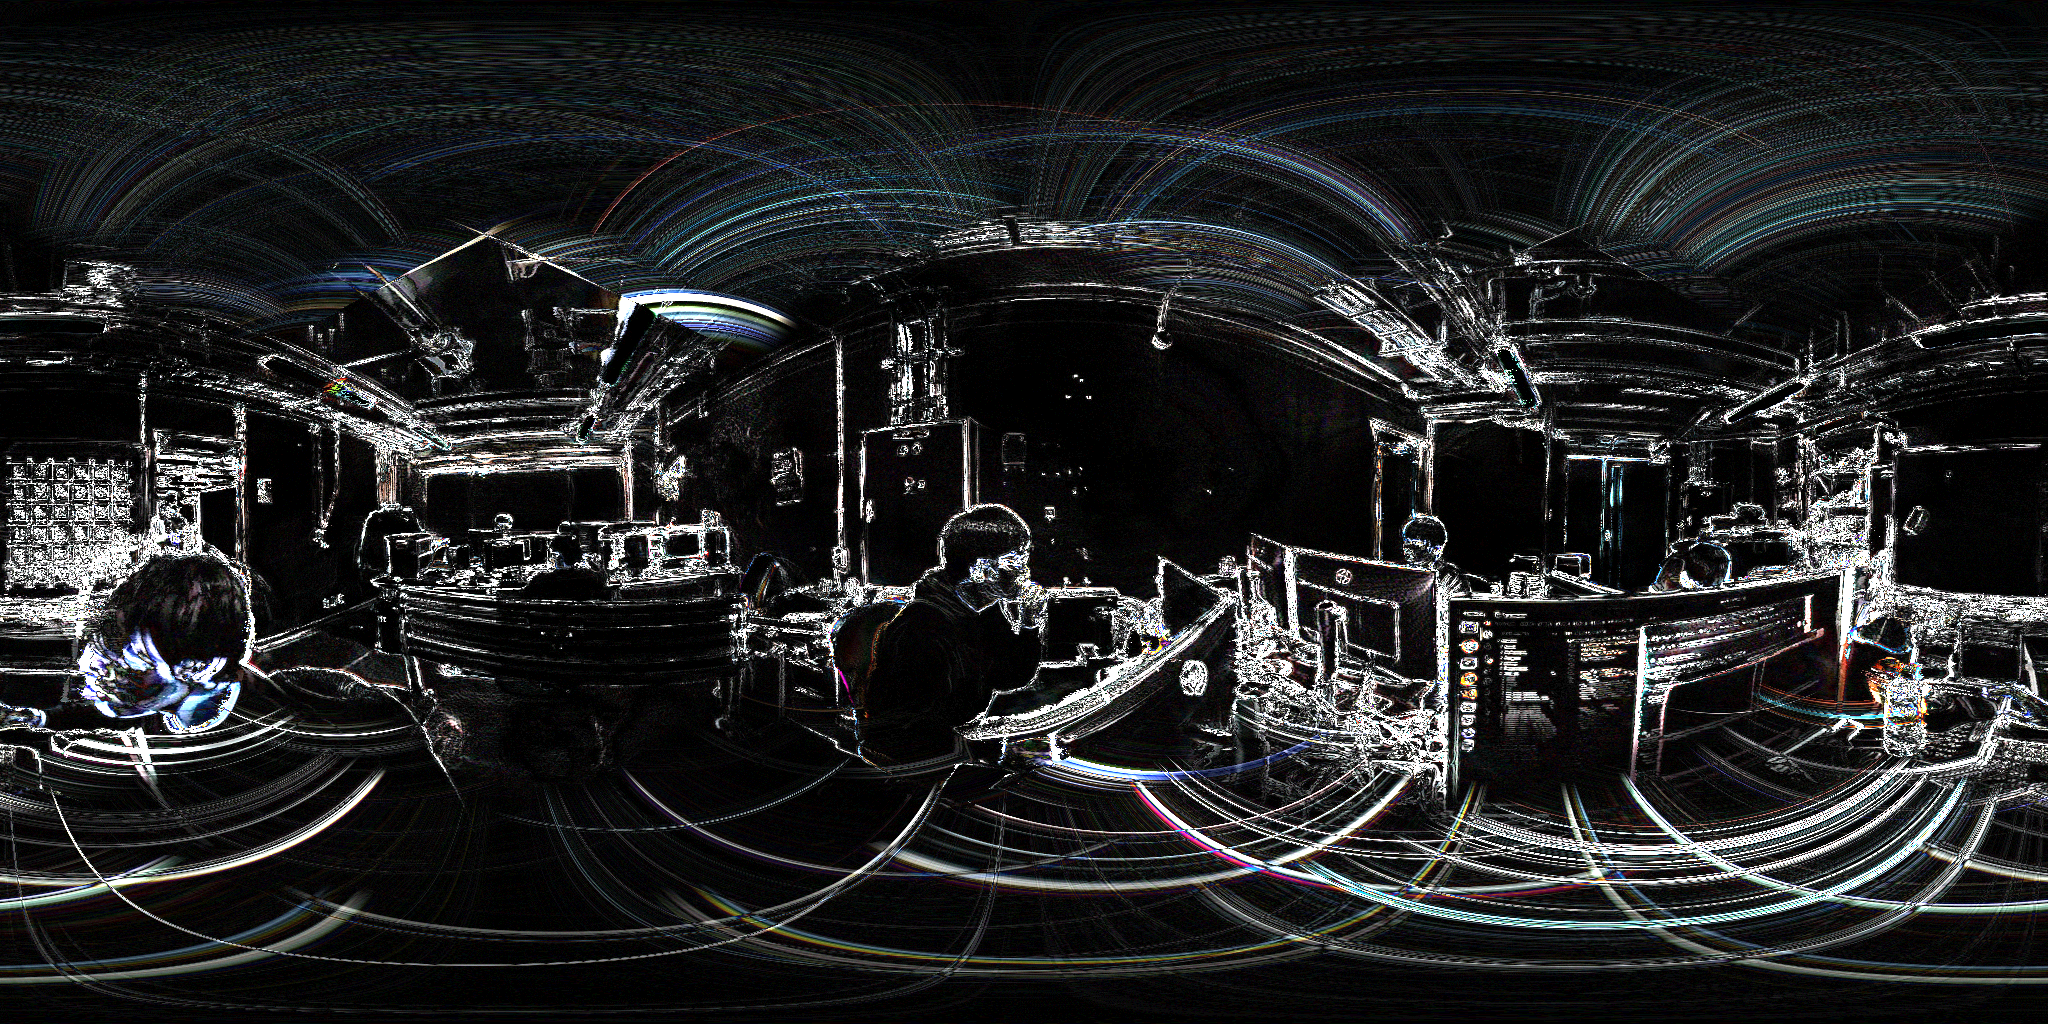
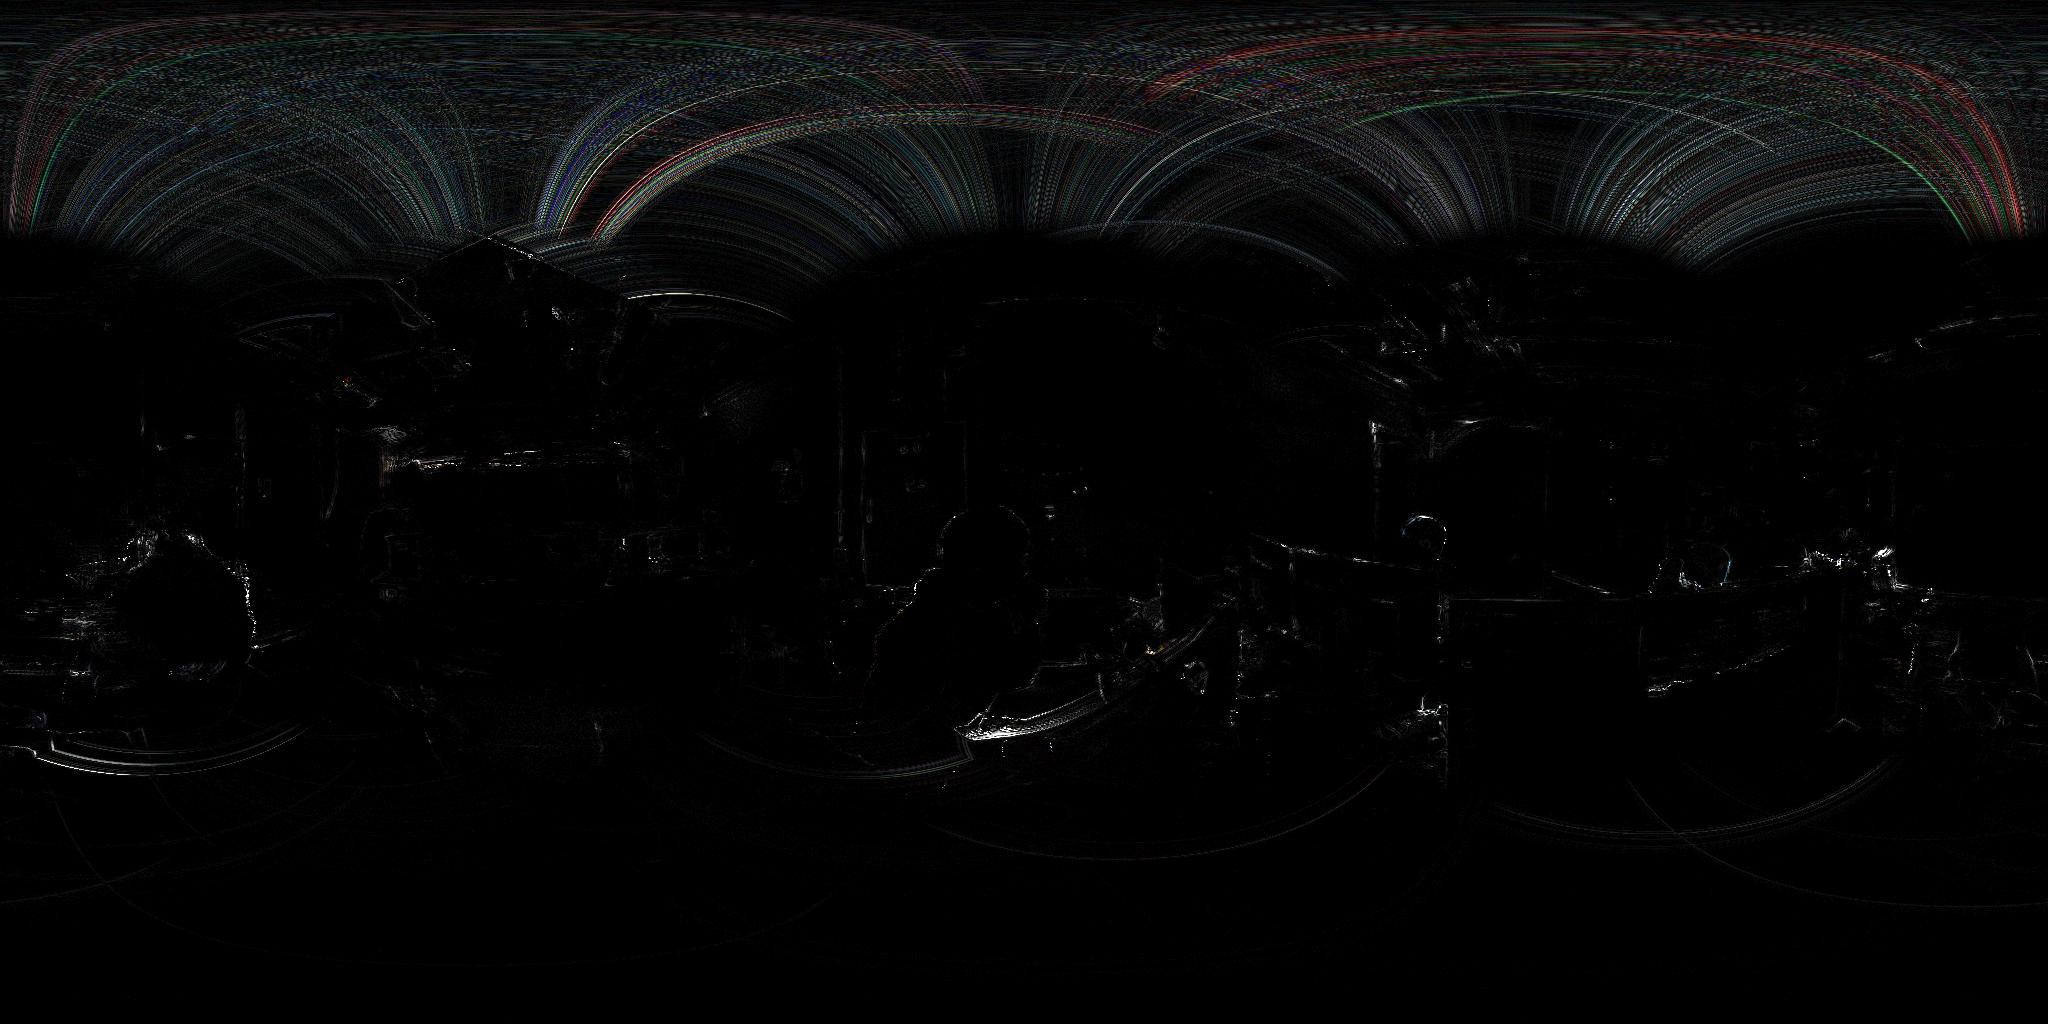
627.24 ms 検証合格！

diff --git a/ros2_ws/src/my_stereo_pkg/src/core/depth_estimation.cpp b/ros2_ws/src/my_stereo_pkg/src/core/depth_estimation.cpp
@@ -573,6 +573,18 @@ at::Tensor RGBDEstimator::estimate_fisheye_distance(
     auto stage1_time = std::chrono::duration_cast<std::chrono::microseconds>(t_stage1_end - t_stage1_start).count() / 1000.0;
     std::cout << "[STAGE 1] launch_compute_costs: " << stage1_time << " ms" << std::endl;
     
+    // DIAGNOSTIC: Probe specific pixel (512, 512) - Raw Cost Volume
+    int probe_x = 512, probe_y = 512;
+    if (probe_x < cols && probe_y < rows && ref_camera_idx == 0) {  // Only for first camera
+        std::cout << "\n=== DIAGNOSTIC PROBE at (" << probe_x << ", " << probe_y << ") ===" << std::endl;
+        auto cost_cpu = unified_cost_volume_.cpu();
+        auto cost_accessor = cost_cpu.accessor<float, 3>();
+        std::cout << "[RAW COST] First 5 depth candidates:" << std::endl;
+        for (int d = 0; d < std::min(5, candidate_count_); ++d) {
+            std::cout << "  d=" << d << ": " << cost_accessor[d][probe_y][probe_x] << std::endl;
+        }
+    }
+    
     // Pass 2: Apply ISB Filter to cost volume
     // Edge-preserving smoothing in cost space (critical for accuracy)
     // Python: cost_volume, _ = self.cost_filter.apply(guide, cost_volume, sigma_i, sigma_s)
@@ -587,6 +599,16 @@ at::Tensor RGBDEstimator::estimate_fisheye_distance(
     auto t_stage2_end = std::chrono::high_resolution_clock::now();
     auto stage2_time = std::chrono::duration_cast<std::chrono::microseconds>(t_stage2_end - t_stage2_start).count() / 1000.0;
     std::cout << "[STAGE 2] ISB Filter apply: " << stage2_time << " ms" << std::endl;
+    
+    // DIAGNOSTIC: Probe after ISB filtering
+    if (probe_x < cols && probe_y < rows && ref_camera_idx == 0) {
+        auto filtered_cpu = filtered_cost_volume.cpu();
+        auto filtered_accessor = filtered_cpu.accessor<float, 3>();
+        std::cout << "[FILTERED COST] First 5 depth candidates:" << std::endl;
+        for (int d = 0; d < std::min(5, candidate_count_); ++d) {
+            std::cout << "  d=" << d << ": " << filtered_accessor[d][probe_y][probe_x] << std::endl;
+        }
+    }
     
     // Pass 3: Winner-Take-All + Quadratic Fitting
     // Compute final depth from ISB-filtered cost volume
@@ -605,21 +627,36 @@ at::Tensor RGBDEstimator::estimate_fisheye_distance(
     auto stage3_time = std::chrono::duration_cast<std::chrono::microseconds>(t_stage3_end - t_stage3_start).count() / 1000.0;
     std::cout << "[STAGE 3] launch_final_depth: " << stage3_time << " ms" << std::endl;
     
-    // Optional: Light post-filtering on distance map (much weaker than Python version)
-    // Python version doesn't apply distance filter after cost filter
-    // We apply very light filtering only for noise reduction
+    // DIAGNOSTIC: Probe final distance before post-filtering
+    if (probe_x < cols && probe_y < rows && ref_camera_idx == 0) {
+        auto dist_cpu = temp_distance_buffer_.cpu();
+        auto dist_accessor = dist_cpu.accessor<float, 2>();
+        std::cout << "[BEFORE POST-FILTER] Distance: " << dist_accessor[probe_y][probe_x] << " m" << std::endl;
+    }
+    
+    // Optional: Light post-filtering on distance map (MATCHES Python implementation)
+    // Python: self.distance_filter.apply(guide.clone(), distance_map.clone(), self.sigma_i/2, self.sigma_s/2)
+    // Higher edge preservation for distance map
     auto t_postfilter_start = std::chrono::high_resolution_clock::now();
     auto distance_map_batched = temp_distance_buffer_.unsqueeze(0);
     auto distance_filter_result = distance_filter_->apply(
         guide, // Remove .clone() to avoid dynamic allocation
         distance_map_batched, 
-        sigma_i_ * 2.0f,  // Much weaker color preservation
-        sigma_s_ * 2.0f   // Much weaker spatial preservation
+        sigma_i_ / 2.0f,  // Higher edge preservation (FIXED: was * 2.0f)
+        sigma_s_ / 2.0f   // Higher edge preservation (FIXED: was * 2.0f)
     );
     auto filtered_distance = distance_filter_result.first;
     auto t_postfilter_end = std::chrono::high_resolution_clock::now();
     auto postfilter_time = std::chrono::duration_cast<std::chrono::microseconds>(t_postfilter_end - t_postfilter_start).count() / 1000.0;
     std::cout << "[POST-FILTER] Distance filter: " << postfilter_time << " ms" << std::endl;
+    
+    // DIAGNOSTIC: Probe final distance after post-filtering
+    if (probe_x < cols && probe_y < rows && ref_camera_idx == 0) {
+        auto final_cpu = filtered_distance.squeeze(0).cpu();
+        auto final_accessor = final_cpu.accessor<float, 2>();
+        std::cout << "[AFTER POST-FILTER] Distance: " << final_accessor[probe_y][probe_x] << " m" << std::endl;
+        std::cout << "=== END DIAGNOSTIC PROBE ===\n" << std::endl;
+    }
     
     // Profiling summary
     auto t_func_end = std::chrono::high_resolution_clock::now();

diff --git a/ros2_ws/scripts/verify_full_pipeline.py b/ros2_ws/scripts/verify_full_pipeline.py
@@ -293,6 +293,25 @@ def verify_full_pipeline():
     print(f"    Time: {py_time:.2f} ms")
     print(f"    RGB shape: {py_rgb.shape}, Distance shape: {py_distance.shape}")
     
+    # DIAGNOSTIC: Probe Python intermediate values at (512, 512)
+    probe_x, probe_y = 512, 512
+    print(f"\n  === PYTHON DIAGNOSTIC PROBE at ({probe_x}, {probe_y}) ===")
+    
+    # Test unproject/project for first camera
+    test_uv = torch.tensor([[probe_x, probe_y]], dtype=torch.float32, device=device)
+    from utils import unproject, project
+    pt_unit, valid = unproject(test_uv, py_calibrations[0])
+    print(f"  [UNPROJECT] Point: {pt_unit[0].cpu().numpy()}, Valid: {valid[0].item()}")
+    
+    # Reproject back
+    uv_back, valid_proj = project(pt_unit, py_calibrations[0])
+    print(f"  [PROJECT] UV back: {uv_back[0].cpu().numpy()}, Valid: {valid_proj[0].item()}")
+    
+    # Note: Cost volume intermediate values would require modifying the Python code
+    # to expose them, which we'll skip for now
+    print(f"  [FINAL DISTANCE] Python: {py_distance[probe_y, probe_x].item():.4f} m")
+    print("  === END PYTHON PROBE ===\n")
+    
     # C++ version
     print("\n  Running C++ RGBDEstimator...")
     torch.cuda.synchronize()
@@ -307,6 +326,11 @@ def verify_full_pipeline():
     
     print(f"    Time: {cpp_time:.2f} ms")
     print(f"    RGB shape: {cpp_rgb.shape}, Distance shape: {cpp_distance.shape}")
+    
+    # DIAGNOSTIC: C++ probe output is printed during execution
+    print(f"\n  === C++ DIAGNOSTIC (see output above) ===")
+    print(f"  [FINAL DISTANCE] C++: {cpp_distance[probe_y, probe_x].item():.4f} m")
+    print("  === END C++ PROBE ===\n")
     
     # ========== Compare Results ==========
     print("\n" + "=" * 80)

diff --git a/ros2_ws/src/my_stereo_pkg/include/my_stereo_pkg/cuda_kernels.hpp b/ros2_ws/src/my_stereo_pkg/include/my_stereo_pkg/cuda_kernels.hpp
@@ -239,6 +239,7 @@ void launch_guide_downsample_2x(
  * @param candidate_count Number of depth candidates
  * @param var_inv_i Inverse variance for intensity difference (1 / sigma_i^2)
  * @param weight_up Spatial weight for upsampling (exp(-dist^2 / sigma_s^2))
+ * @param weight_down Spatial weight for downsampling
  */
 void launch_guide_upsample_2x(
     const at::Tensor& guide_low,
@@ -251,7 +252,8 @@ void launch_guide_upsample_2x(
     int colsOut,
     int candidate_count,
     float var_inv_i,
-    float weight_up
+    float weight_up,
+    float weight_down
 );
 
 // Cost Volume Computation CUDA kernel wrappers

diff --git a/ros2_ws/src/my_stereo_pkg/src/core/isb_filter.cpp b/ros2_ws/src/my_stereo_pkg/src/core/isb_filter.cpp
@@ -135,7 +135,8 @@ std::pair<at::Tensor, at::Tensor> ISBFilter::apply(
             cols_high,
             candidate_count_,
             var_inv_i,
-            weight_up
+            weight_up,
+            weight_down
         );
     }
     
